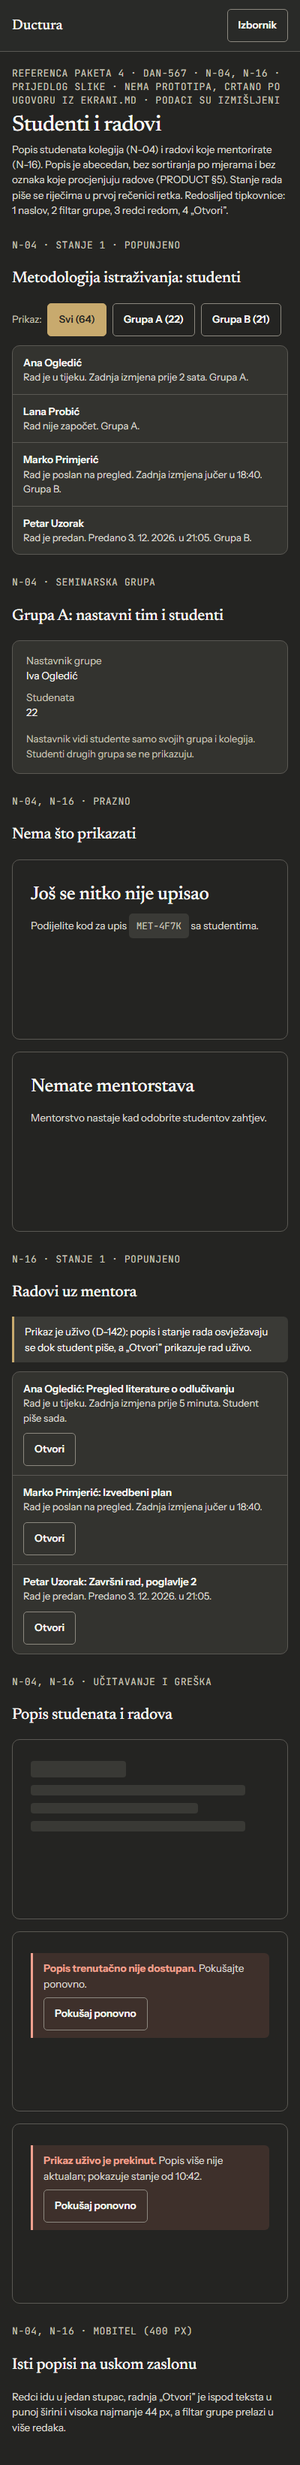
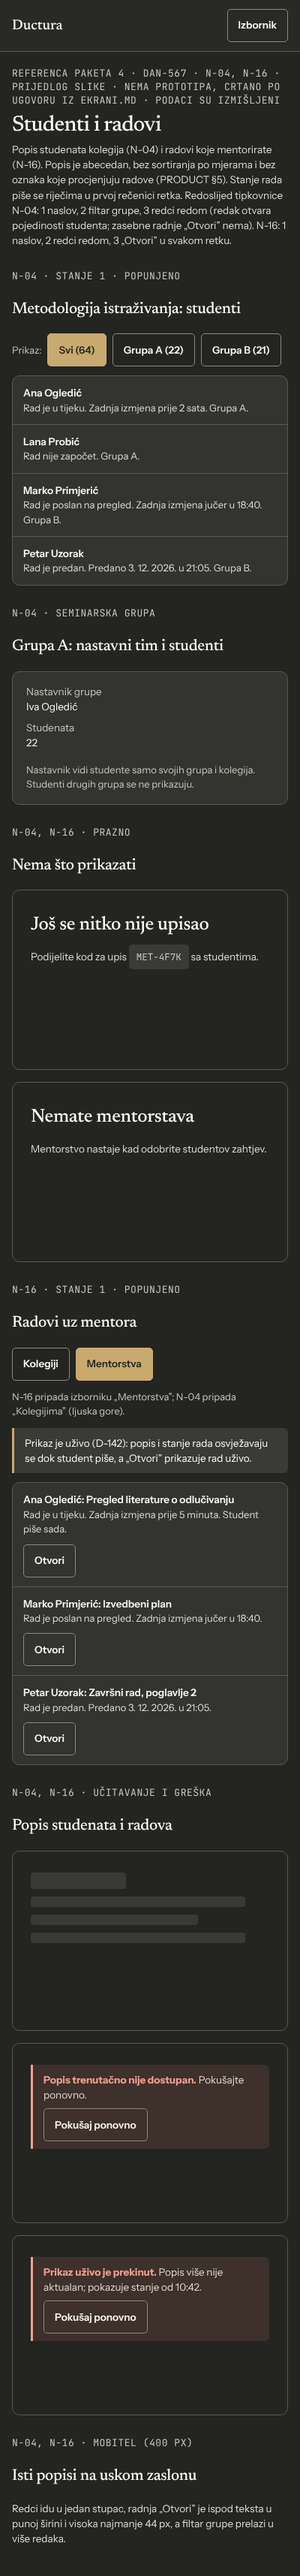
docs: N-03 empty state, D-175 tool rule, N-04/N-16 shell nav (DAN-567)
Claude-Session: https://claude.ai/code/session_01N1HowTYswgZsReTRDMNeov

diff --git a/docs/design/ductura/m2-nastavnik-reference/n02-n03-kolegij-i-zadatak.html b/docs/design/ductura/m2-nastavnik-reference/n02-n03-kolegij-i-zadatak.html
@@ -20,7 +20,7 @@
     <header>
       <div class="ref-tag">Referenca paketa 4 · DAN-567 · N-02, N-03 · prijedlog slike · raspored iz demo-tok-v2.dc.html (zaslon 2), prebojan u papir i grafit · podaci su izmišljeni</div>
       <h1>Novi kolegij i zadatak</h1>
-      <p>Dva koraka: kolegij, zatim zadatak u čarobnjaku u četiri koraka. Uporaba alata slijedi Pravilnik (čl. 8); nastavnik popis može samo suziti. Redoslijed tipkovnice: 1 naslov, 2 polja obrasca redom, 3 „Dalje”, 4 „Natrag”.</p>
+      <p>Dva koraka: kolegij, zatim zadatak u čarobnjaku u četiri koraka. Pravilo uporabe alata kolegija polazi od pravila fakulteta (D-117) i nastavnik ga na razini kolegija smije pooštriti i ublažiti (D-175); pravilo zadatka smije samo suziti pravilo kolegija (D-52). Redoslijed tipkovnice: 1 naslov, 2 polja obrasca redom, 3 „Dalje”, 4 „Natrag”.</p>
     </header>
 
     <section class="state" aria-labelledby="h2-pra">
@@ -46,8 +46,22 @@
       </form>
     </section>
 
+    <section class="state" aria-labelledby="h3-pr">
+      <div class="ref-tag">N-03 · stanje 1 · prazno (korak 1, bez unosa)</div>
+      <h2 id="h3-pr">Novi zadatak: Osnovno</h2>
+      <ol class="steps" aria-label="Koraci čarobnjaka">
+        <li aria-current="step">1 Osnovno</li><li>2 Rokovi i opseg</li><li>3 Uporaba alata</li><li>4 Pregled</li>
+      </ol>
+      <form class="card" novalidate>
+        <div class="formrow"><label for="n3-naslov">Naslov zadatka</label><input class="field" id="n3-naslov" type="text" autocomplete="off"><span class="hint">Do 160 znakova.</span></div>
+        <div class="formrow"><label for="n3-opis">Opis zadatka</label><textarea class="field" id="n3-opis" rows="4"></textarea></div>
+        <div class="row"><a class="btn secondary" href="#">Odustani</a><button class="btn" type="button">Dalje</button></div>
+        <p class="meta">Koraci 2 do 4 otključavaju se redom; ništa se ne objavljuje dok ne potvrdite korak 4.</p>
+      </form>
+    </section>
+
     <section class="state" aria-labelledby="h3-k1">
-      <div class="ref-tag">N-03 · koraci čarobnjaka</div>
+      <div class="ref-tag">N-03 · koraci čarobnjaka (korak 3, koraci 1 i 2 ispunjeni)</div>
       <h2 id="h3-k1">Čarobnjak zadatka</h2>
       <ol class="steps" aria-label="Koraci čarobnjaka">
         <li>1 Osnovno</li><li>2 Rokovi i opseg</li><li aria-current="step">3 Uporaba alata</li><li>4 Pregled</li>
@@ -60,14 +74,14 @@
       <h2 id="h3-alati">Dopuštena uporaba alata</h2>
       <div class="cols">
         <div>
-          <p class="lead">Popis dopuštenog zadan je Pravilnikom (čl. 8). Možete ga samo suziti: isključena stavka prelazi u „Nije dopušteno”. Tekst stavki u aplikaciji ide doslovno iz Pravilnika; ovdje je sažetak.</p>
+          <p class="lead">Zadatak nasljeđuje pravilo kolegija i smije ga samo suziti: isključena stavka prelazi u „Nije dopušteno”. Pravilo kolegija (polazi od pravila fakulteta) postavljate zasebno, pri uređivanju kolegija, i ondje ga smijete i pooštriti i ublažiti. Tekst stavki u aplikaciji ide doslovno iz Pravilnika; ovdje je sažetak.</p>
           <div class="list" role="group" aria-label="Dopušteno">
             <div class="tool"><span>Pretraživanje literature i izvora</span><label><input type="checkbox" checked> Dopušteno</label></div>
             <div class="tool"><span>Provjera pravopisa i gramatike</span><label><input type="checkbox" checked> Dopušteno</label></div>
             <div class="tool"><span>Prijevod izvora na hrvatski</span><label><input type="checkbox"> Dopušteno</label></div>
             <div class="tool"><span>Objašnjenje pojma (razina 2)</span><label><input type="checkbox" checked> Dopušteno</label></div>
           </div>
-          <div class="card" style="margin-top:12px"><strong>Nije dopušteno (fiksno)</strong><p class="meta">Pisanje teksta rada umjesto studenta i drugo što zabranjuje Pravilnik. Ovaj popis ne mijenjate.</p></div>
+          <div class="card" style="margin-top:12px"><strong>Nije dopušteno (fiksno)</strong><p class="meta">Pisanje teksta rada umjesto studenta i drugo što zabranjuje Pravilnik. Ovaj popis ne mijenjate; kolegij ne može dopustiti ni više od pravila kolegija.</p></div>
         </div>
         <aside class="card" aria-label="Kako vidi student">
           <strong>Kako vidi student</strong>

diff --git a/docs/design/ductura/m2-nastavnik-reference/n04-n16-studenti-i-radovi.html b/docs/design/ductura/m2-nastavnik-reference/n04-n16-studenti-i-radovi.html
@@ -12,15 +12,15 @@
     <a class="brand" href="#" aria-label="Ductura, početna stranica nastavnika"><span class="mark" aria-hidden="true">D</span><span class="word">Ductura</span></a>
     <button class="btn secondary menu" type="button" aria-expanded="false">Izbornik</button>
     <nav aria-label="Nastavnik">
-      <a href="#">Kolegiji</a>
-      <a href="#" aria-current="page">Mentorstva</a>
+      <a href="#" aria-current="page">Kolegiji</a>
+      <a href="#">Mentorstva</a>
     </nav>
   </aside>
   <main class="main">
     <header>
       <div class="ref-tag">Referenca paketa 4 · DAN-567 · N-04, N-16 · prijedlog slike · nema prototipa, crtano po ugovoru iz EKRANI.md · podaci su izmišljeni</div>
       <h1>Studenti i radovi</h1>
-      <p>Popis studenata kolegija (N-04) i radovi koje mentorirate (N-16). Popis je abecedan, bez sortiranja po mjerama i bez oznaka koje procjenjuju radove (PRODUCT §5). Stanje rada piše se riječima u prvoj rečenici retka. Redoslijed tipkovnice: 1 naslov, 2 filtar grupe, 3 redci redom, 4 „Otvori”.</p>
+      <p>Popis studenata kolegija (N-04) i radovi koje mentorirate (N-16). Popis je abecedan, bez sortiranja po mjerama i bez oznaka koje procjenjuju radove (PRODUCT §5). Stanje rada piše se riječima u prvoj rečenici retka. Redoslijed tipkovnice N-04: 1 naslov, 2 filtar grupe, 3 redci redom (redak otvara pojedinosti studenta; zasebne radnje „Otvori” nema). N-16: 1 naslov, 2 redci redom, 3 „Otvori” u svakom retku.</p>
     </header>
 
     <section class="state" aria-labelledby="h4-pop">
@@ -60,6 +60,8 @@
     <section class="state" aria-labelledby="h16-pop">
       <div class="ref-tag">N-16 · stanje 1 · popunjeno</div>
       <h2 id="h16-pop">Radovi uz mentora</h2>
+      <nav class="row" aria-label="Nastavnik (ljuska ekrana N-16)"><a class="btn secondary" href="#">Kolegiji</a><a class="btn" href="#" aria-current="page">Mentorstva</a></nav>
+      <p class="meta">N-16 pripada izborniku „Mentorstva”; N-04 pripada „Kolegijima” (ljuska gore).</p>
       <p class="status" role="status">Prikaz je uživo (D-142): popis i stanje rada osvježavaju se dok student piše, a „Otvori” prikazuje rad uživo.</p>
       <div class="list">
         <div class="item"><div><span class="who">Ana Ogledić: Pregled literature o odlučivanju</span><div class="facts">Rad je u tijeku. Zadnja izmjena prije 5 minuta. Student piše sada.</div></div><div class="actions"><a class="btn secondary" href="#">Otvori</a></div></div>

diff --git a/docs/design/ductura/m2-nastavnik-reference/README.md b/docs/design/ductura/m2-nastavnik-reference/README.md
@@ -21,7 +21,7 @@ EQ1: raspored se preuzima iz starih `.dc.html` prototipa, a boje ne. **Ekrani be
 | Datoteka | Ekrani |
 |---|---|
 | `n01-moji-kolegiji.html` | N-01: popunjeno, prazno, učitavanje, greška, mobitel |
-| `n02-n03-kolegij-i-zadatak.html` | N-02: prazno, valjanost obrasca, učitavanje, greška, mobitel. N-03: koraci čarobnjaka, dopuštena uporaba alata, pregled, učitavanje, greška, mobitel |
+| `n02-n03-kolegij-i-zadatak.html` | N-02: prazno, valjanost obrasca, učitavanje, greška, mobitel. N-03: prazno (korak 1), koraci čarobnjaka, dopuštena uporaba alata, pregled, učitavanje, greška, mobitel |
 | `n04-n16-studenti-i-radovi.html` | N-04: popunjeno, seminarska grupa. N-04 i N-16: prazno, učitavanje, greška (uključujući prekinut prikaz uživo), mobitel. N-16: popunjeno |
 | `reference.css` | tokeni „papir i grafit” (DESIGN-SYSTEM §3) i fontovi iz `app/fonts` |
 | `snimke/` | PNG snimke i `SHA256SUMS` |
@@ -30,7 +30,7 @@ EQ1: raspored se preuzima iz starih `.dc.html` prototipa, a boje ne. **Ekrani be
 
 - Mentor vidi rad uživo (D-142). Nijedan tekst ne tvrdi da mentor vidi rad tek nakon slanja; popis N-16 označava prikaz uživo i prikazuje prekid uživo kao grešku.
 - Popis studenata je abecedan, bez mjera, bez sortiranja po brojevima i bez oznaka koje procjenjuju radove. Stanje rada je u prvoj rečenici retka (PRODUCT §4 t. 4).
-- Uporaba alata (čl. 8): popis dopuštenog nastavnik može samo suziti; fiksni popis zabranjenog ne mijenja se. Tekst stavki je sažetak, u aplikaciji ide doslovno iz Pravilnika.
+- Uporaba alata: pravilo kolegija polazi od pravila fakulteta i nastavnik ga smije pooštriti i ublažiti (D-175); pravilo zadatka smije samo suziti pravilo kolegija (D-52); fiksni popis zabranjenog ne mijenja se. Tekst stavki je sažetak, u aplikaciji ide doslovno iz Pravilnika.
 - Greška čitanja nikad se ne prikazuje kao prazan popis ni kao nule. Prekinuta veza nakon objave zadatka je „ishod nije poznat” s radnjom „Provjeri stanje”.
 - Učitavanje i greška su zajednički uzorak iz paketa 1 (Z-06), primijenjen na svaki ekran. Posebno je prikazan ishod prekinute objave jer samo ondje ishod može biti nepoznat.
 
